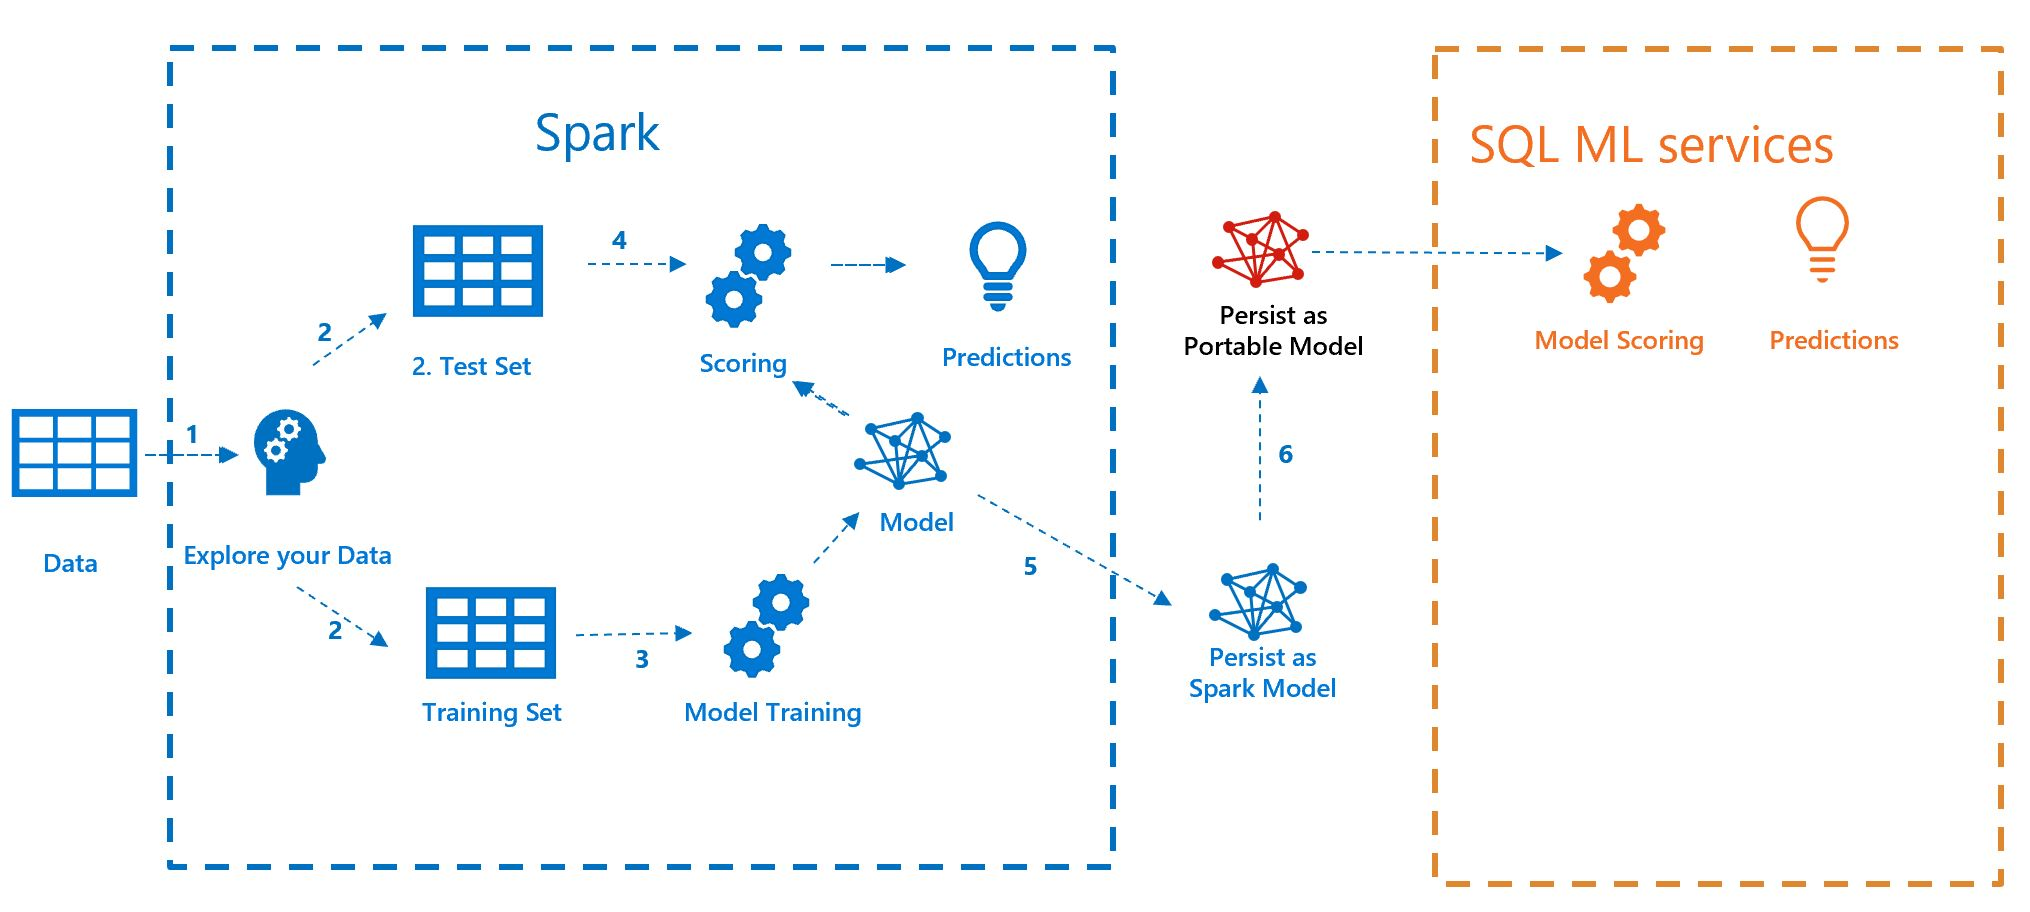
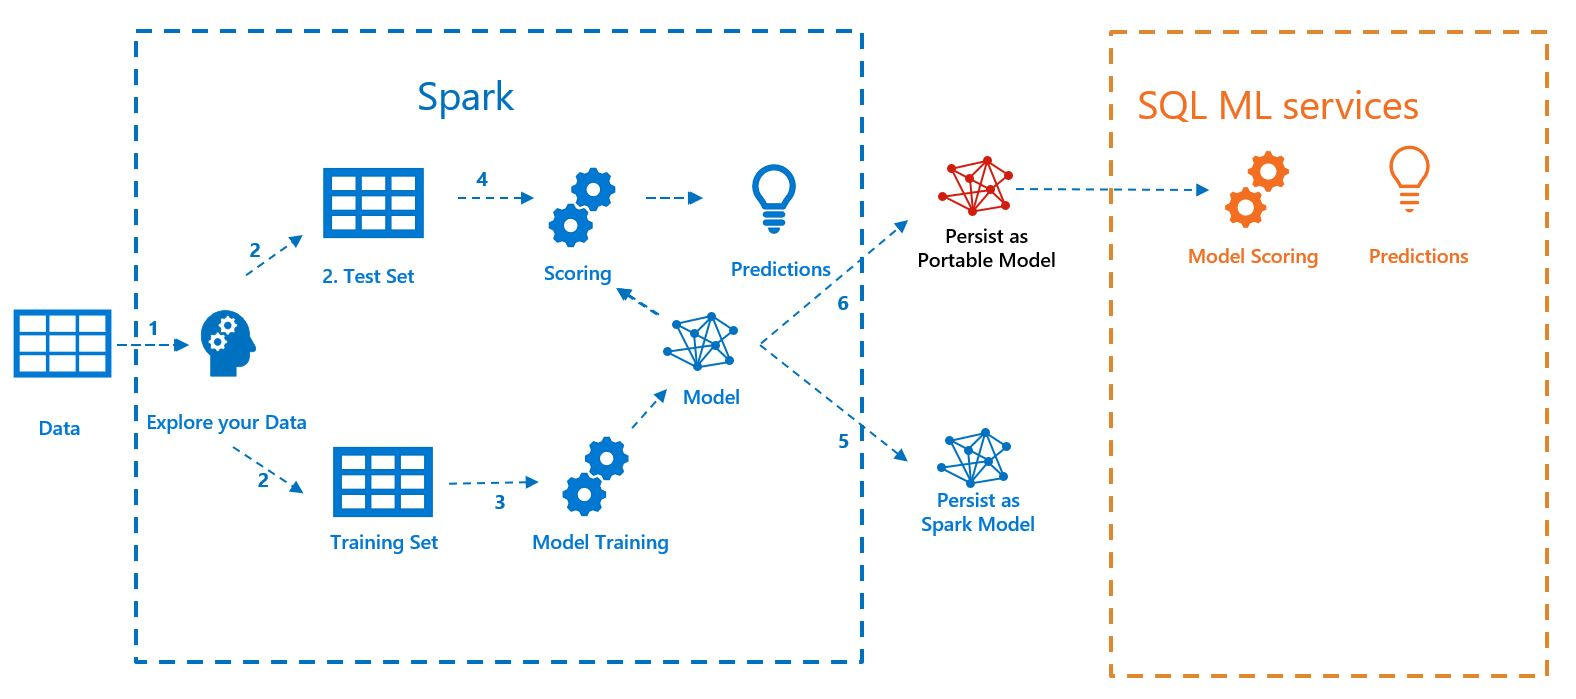
update image and md file.

diff --git a/samples/features/sql-big-data-cluster/spark/sparkml/README.md b/samples/features/sql-big-data-cluster/spark/sparkml/README.md
@@ -1,6 +1,8 @@
 # MLeap on SQL Server Big Data cluster
 This folder shows how we can build a model with [Spark ML](https://spark.apache.org/docs/latest/ml-guide.html), export the model to [MLeap](mleap-docs.combust.ml/), and score the model in SQL Server with its [Java Language Extension](https://docs.microsoft.com/en-us/sql/language-extensions/language-extensions-overview?view=sqlallproducts-allversions)
 
+![Train_Score_Export_with_Spark.jpg](Train_Score_Export_with_Spark.jpg)
+
 ## Model training with Spark ML
 In this sample code, AdultCensusIncome.csv is used to build a Spark ML pipeline model.  We can [download the dataset from internet](mleap_sql_test/setup.sh#L11) and [put it on HDFS on a SQL BDC cluster](mleap_sql_test/setup.sh#L12) so that it can be accessed by Spark.
 
